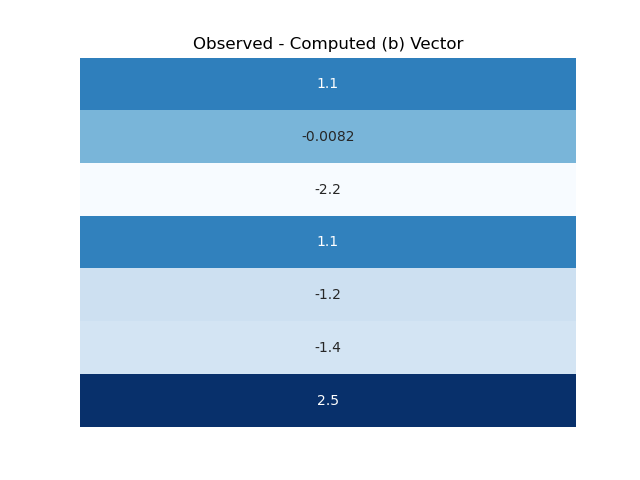
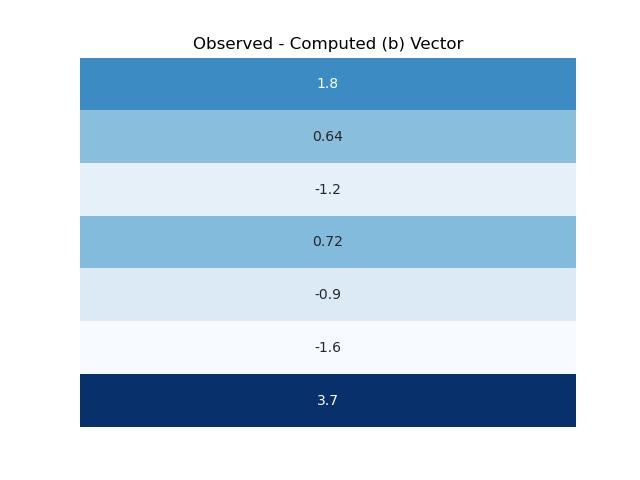
fix: Type annotations

diff --git a/Matrix_Computation_Classes.py b/Matrix_Computation_Classes.py
@@ -24,9 +24,17 @@ f = signal frequency (L1: 1575.42MHz, L2: 1227.6MHz)  either L1 or L2 can be Tru
 """
 
 class DD:
-    def __init__(self, ref_station=None, corresponding_sat=None, sat_ref=None,
-                       N=None, e=None,
-                       brrs=None, rrrs=None, brcs=None, rrcs=None, L1=True, dsl=None):
+    def __init__(self, ref_station: list =None,
+                       corresponding_sat: list =None,
+                       sat_ref= None,
+                       N: int = None,
+                       e: float = None,
+                       brrs: float = None,
+                       rrrs: float = None,
+                       brcs: float = None,
+                       rrcs: float =None,
+                       L1 : bool = True,
+                       dsl: float = None):
 
         if L1:
             wl = 0.19029367
@@ -51,7 +59,7 @@ class DD:
         self.dsl = dsl
 
 
-    def x_diff(self):
+    def x_diff(self) -> float:
         return float(1 / self.wl * \
                     (
                          (self.X_3A - self.X_s) /
@@ -64,7 +72,7 @@ class DD:
                           (self.Y_s_ref - self.Y_3A) ** 2 +
                           (self.Z_s_ref - self.Z_3A) ** 2)))
 
-    def y_diff(self):
+    def y_diff(self) -> float:
         return float((1 / self.wl * \
                     (
                          (self.Y_3A - self.Y_s) /
@@ -77,7 +85,7 @@ class DD:
                           (self.Y_s_ref - self.Y_3A) ** 2 +
                           (self.Z_s_ref - self.Z_3A) ** 2))))
 
-    def z_diff(self):
+    def z_diff(self) -> float:
         return float(1 / self.wl * \
                      (
                          (self.Z_3A - self.Z_s) /
@@ -90,18 +98,23 @@ class DD:
                           (self.Y_s_ref - self.Y_3A) ** 2 +
                           (self.Z_s_ref - self.Z_3A) ** 2)))
 
-    def calc_b_vector(self):
+    def calc_b_vector(self) -> float:
         # observed - The vector of measured quantities
-        o = self.dsl
+        o = self.dsl - self.N + self.e
 
         # Computed
-        c = (1 / self.wl) * (self.brrs - self.rrrs - self.brcs + self.rrcs) + self.N + self.e
+        c = (1 / self.wl) * (self.brrs - self.rrrs - self.brcs + self.rrcs)
         return o - c
 
 
 class Variance:
 
-    def __init__(self, sat_coords, receiver_coords, range_obs, L1=True):
+    def __init__(self, sat_coords: list,
+                       receiver_coords: list,
+                       range_obs: list,
+                       L1: bool == True):
+
+
 
         if L1:
             l1_std = 0.003
@@ -111,16 +124,37 @@ class Variance:
         self.receiver_coords = receiver_coords
         self.range_obs = range_obs
 
-    def elevation_variance_calculator(self):
+    def elevation_variance_calculator(self) -> float:
 
+        """"
+        This method calculates the satellite angle of elevation in the following stages:
+        Calculates the distance of receiver to the satellite (m) using pythagoras theorem.
+        Calculates the distance between the earth center and the satellite (m) using pythagoras theorem.
+        Calculates the distance between the earth center and the receiver (m) using pythagoras theorem.
+        These ranges make up a scalene triangle, where all ranges are known.
+        The low of cosines is used to calculate the angle about the receiver in degrees. 
+        90 is subtracted from this angle to get the local elevation angle.     
+        The method then calculates the variance of the satellite at the calculated angle.
+        returns the variance as a float
+        """""
+
+        # Extract ECEF distances (m)
         x_s, y_s, z_s = self.sat_coords[0], self.sat_coords[1], self.sat_coords[2]
         x_r, y_r, z_r = self.receiver_coords[0], self.receiver_coords[1], self.receiver_coords[2]
 
+        # Distance from receiver to satellite (m)
         r_s = sqrt((x_s - x_r)**2 + (y_s - y_r)**2 + (z_s - z_r)**2)
+
+        # Distance from earth center to satellite (m)
         ec_s = sqrt((sqrt(x_s ** 2 + y_s ** 2)) ** 2 + z_s ** 2)
+
+        # Distance from earth center to receiver (m)
         ec_r = sqrt((sqrt(x_r ** 2 + y_r ** 2)) ** 2 + z_r ** 2)
+
+        # Angle from the local horizontal to the satellite (m)
         angle = (degrees(acos((ec_r ** 2 + r_s ** 2 - ec_s ** 2) / (2 * ec_r * r_s)))) - 90
 
+        # Variance (uncertainty associated with the satellite) (m)
         variance = (self.l1_std ** 2) / sin(angle)
 
         return variance

diff --git a/Computations.py b/Computations.py
@@ -560,9 +560,11 @@ if __name__ == "__main__":
     X_hat = calculate_x_hat(A, Wd, b)
     print(X_hat)
 
-    x_hat_out = np.array([["X", float(X_hat[0])],
-                          ["Y", float(X_hat[1])],
-                          ["Z", float(X_hat[2])]])
+    L1_wl = 0.19
+
+    x_hat_out = np.array([["X", 1/L1_wl*(float(X_hat[0]))],
+                          ["Y", 1/L1_wl*(float(X_hat[1]))],
+                          ["Z", 1/1/L1_wl*(float(X_hat[2]))]])
 
     print(x_hat_out)
 
